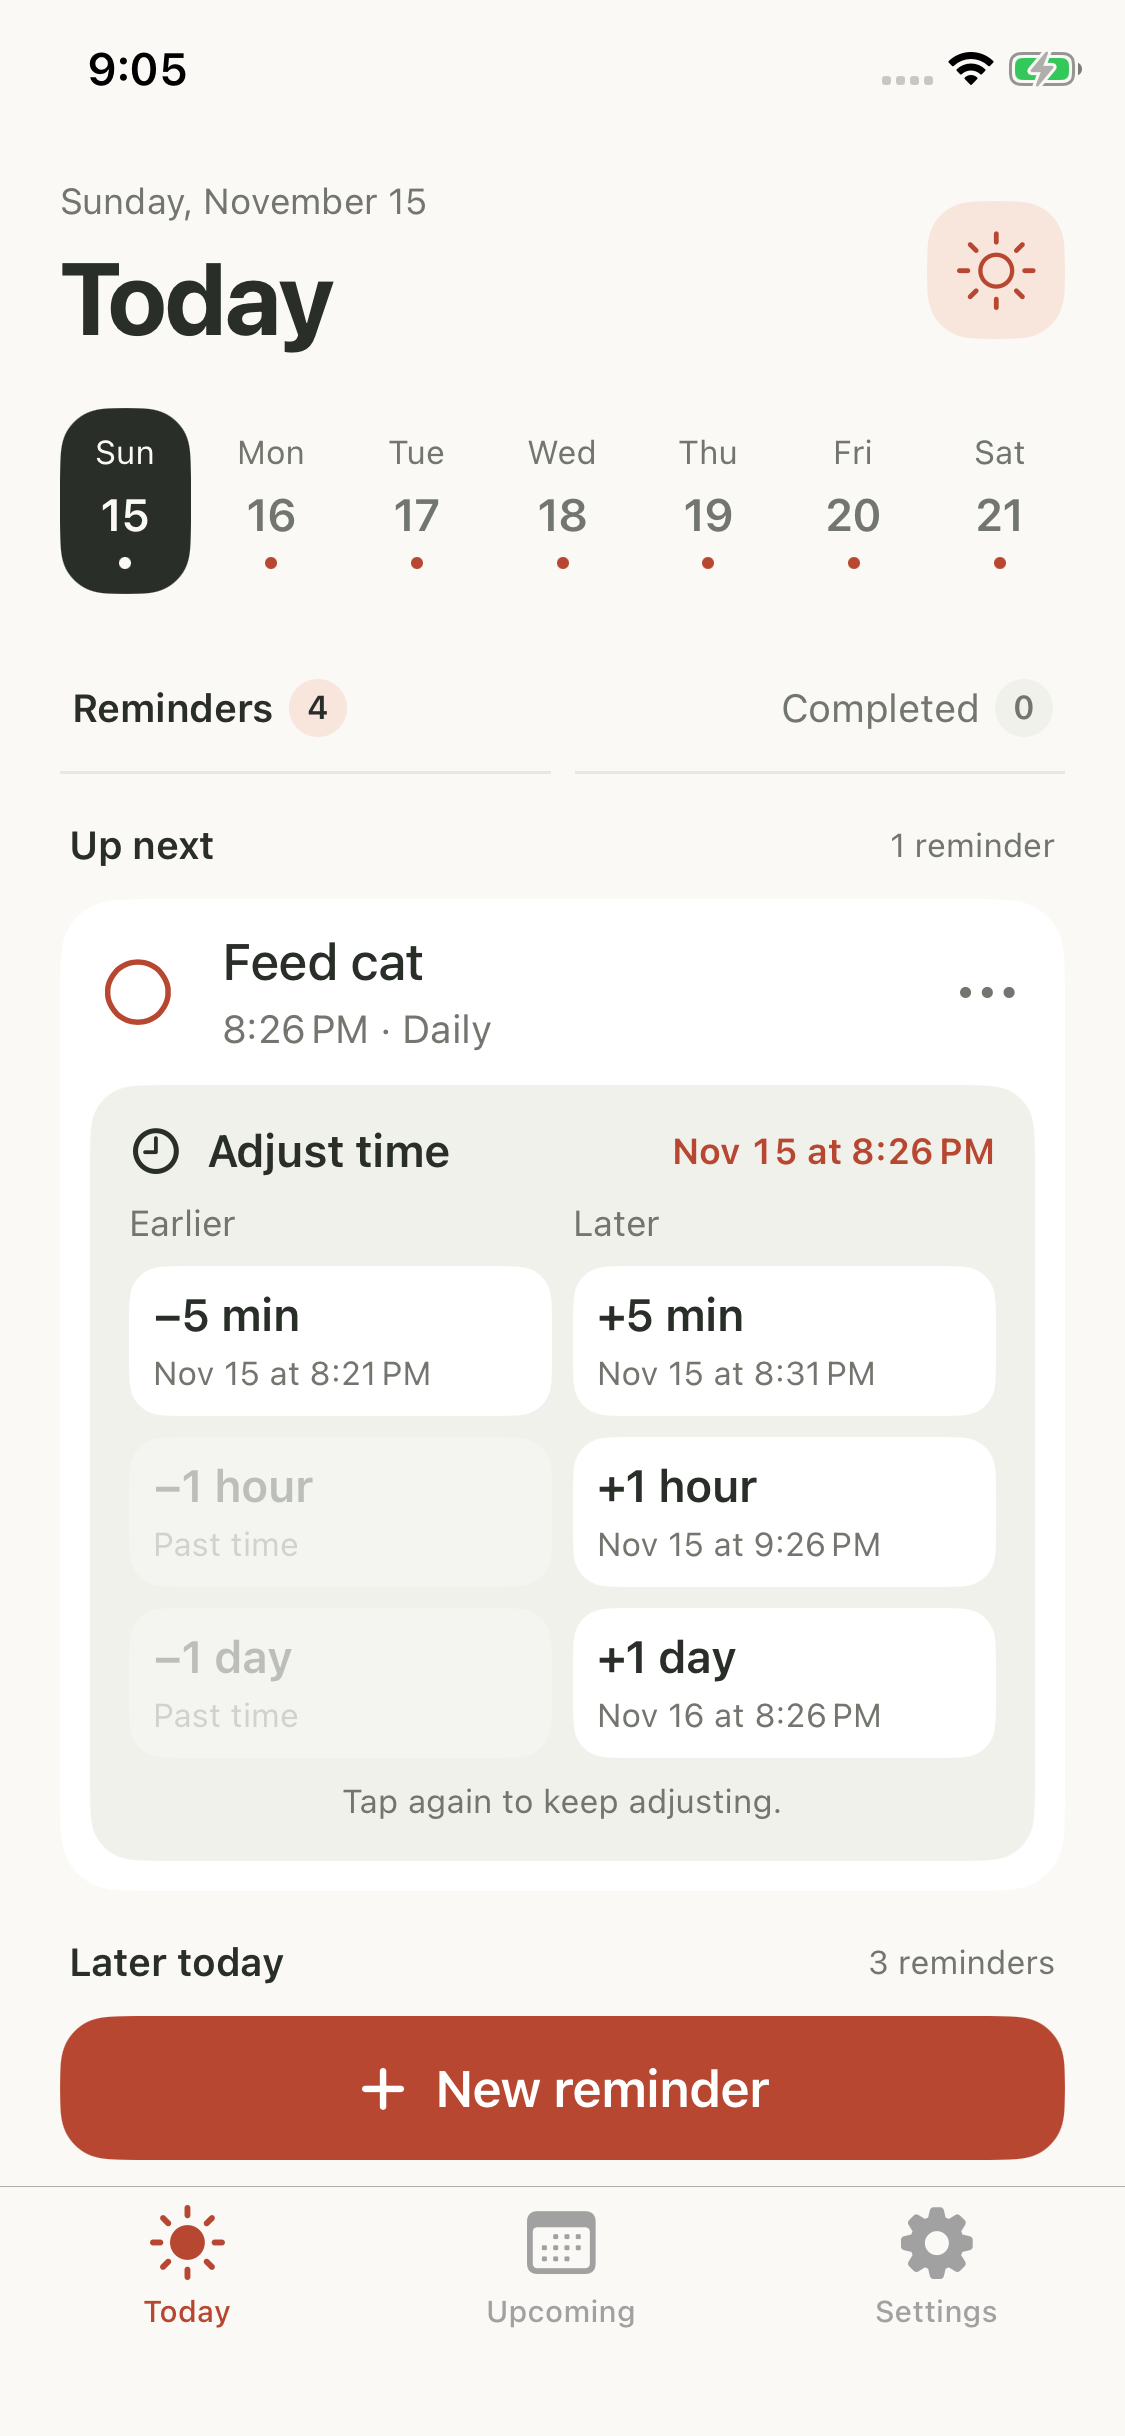
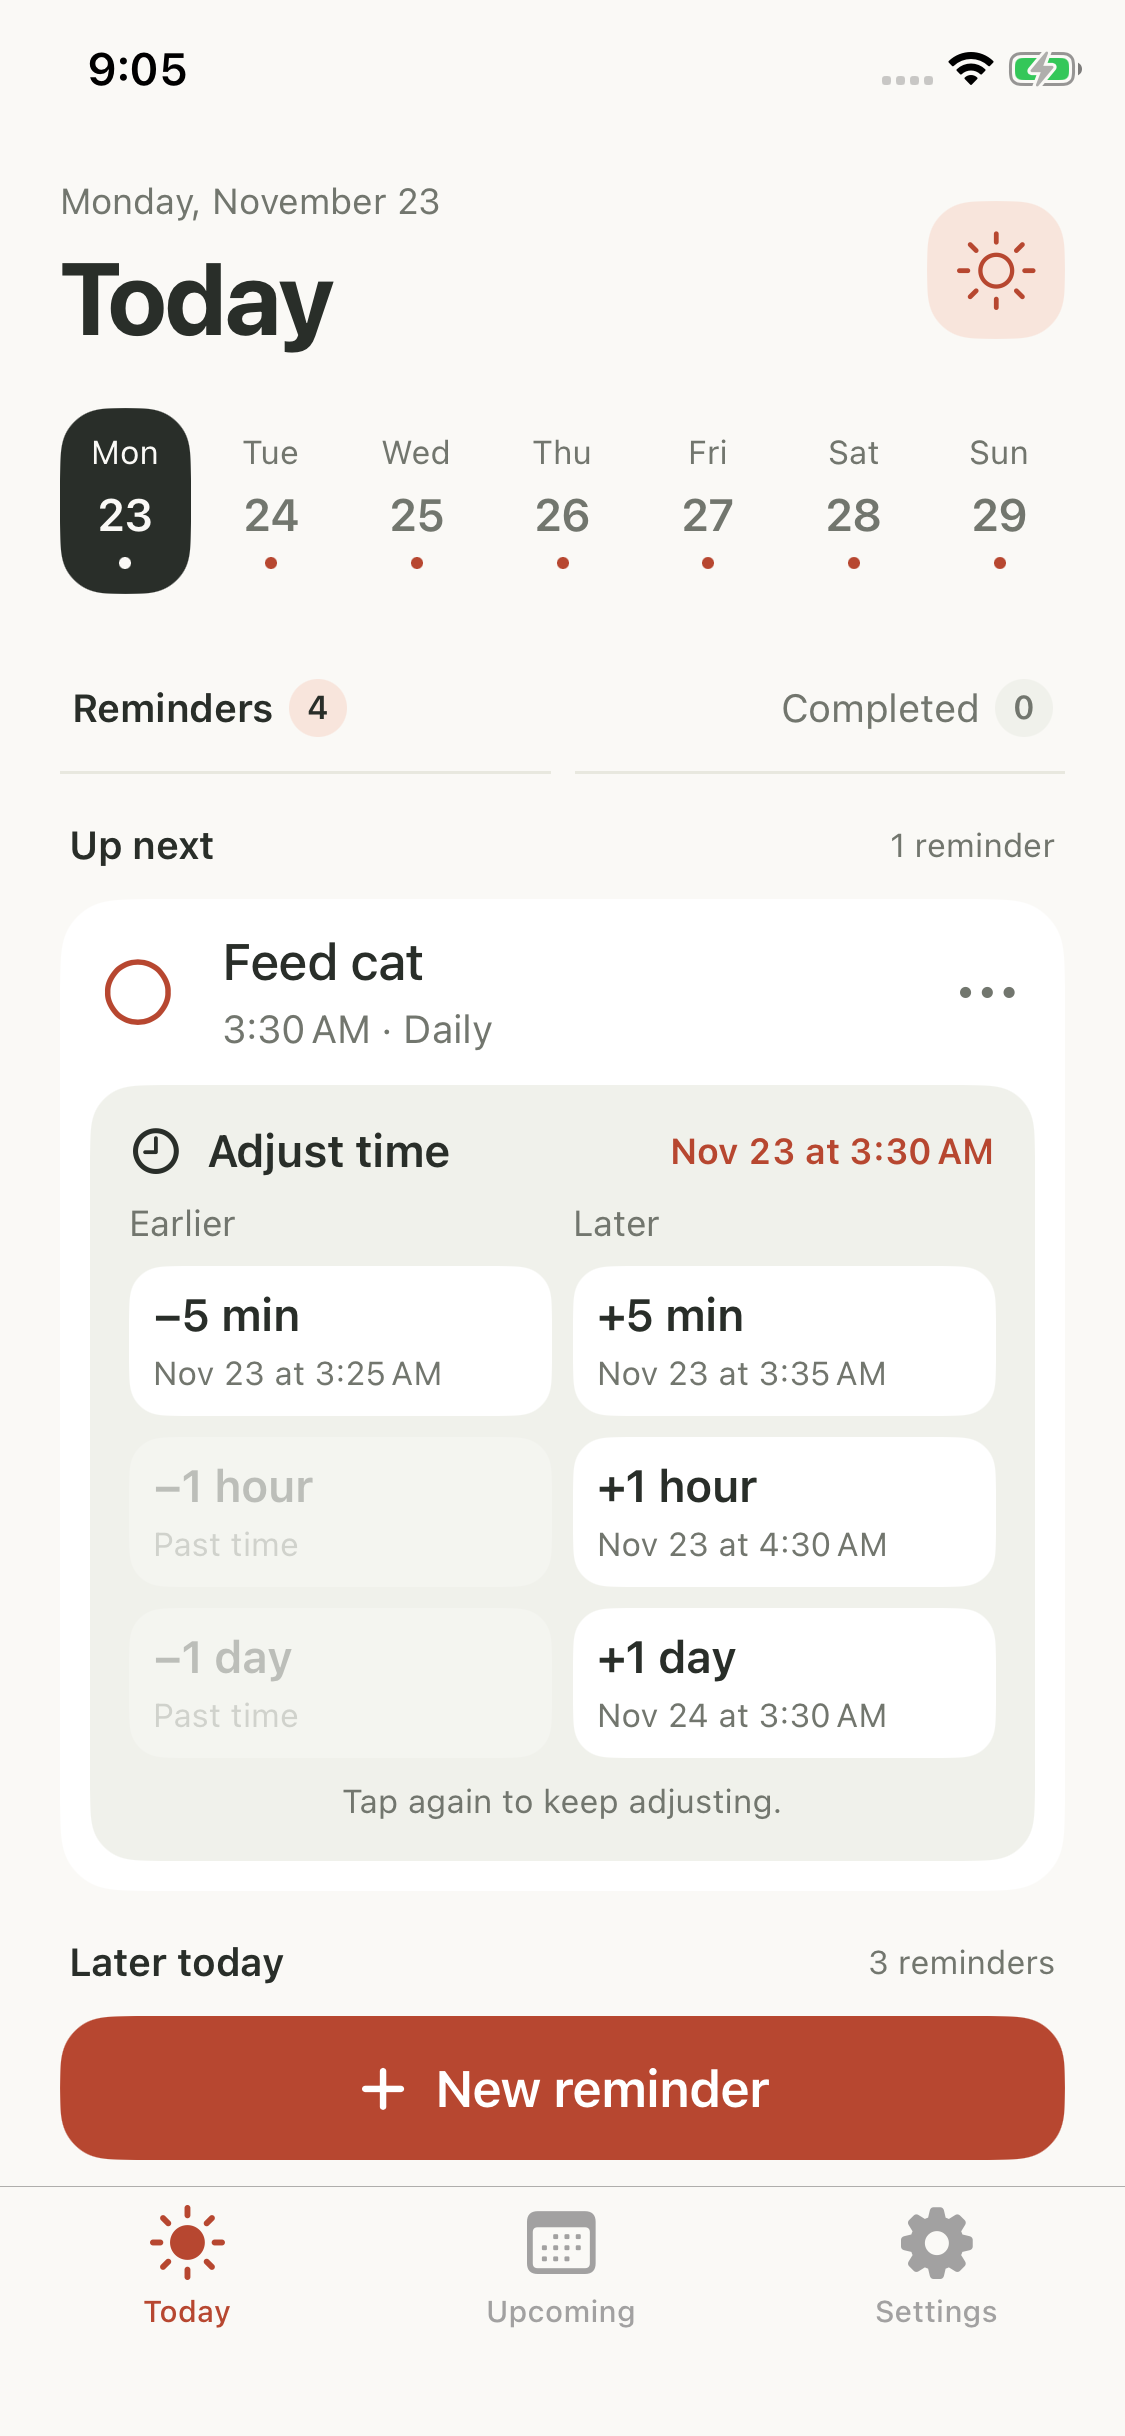
Refresh README with current 1.1.26 screenshots and feature descriptions [skip ci]

diff --git a/README.md b/README.md
@@ -34,7 +34,7 @@ Feed the cat. Make that call. Remember the thing you promised yourself you'd do.
   </tr>
   <tr>
     <td align="center"><img src="docs/images/app-today.png" width="270" alt="Native Today screen with a seven-day date strip, Bell Buddy, an Up Next countdown, and reminders"></td>
-    <td align="center"><img src="docs/images/app-editor.png" width="270" alt="Native reminder editor with blank time entry, AM/PM, date shortcuts, repeat, Nag Me, sound, and notes"></td>
+    <td align="center"><img src="docs/images/app-editor.png" width="270" alt="Native reminder editor showing 3:00 PM, the AM/PM switch, date shortcuts, repeat, Nag Me, sound, and notes"></td>
     <td align="center"><img src="docs/images/app-settings.png" width="270" alt="Native Settings screen with defaults, appearance, automatic backup, import and export, version, and developer credit"></td>
   </tr>
   <tr>
@@ -44,15 +44,30 @@ Feed the cat. Make that call. Remember the thing you promised yourself you'd do.
   </tr>
 </table>
 
-<p align="center"><sub>Native simulator captures with sample reminders, from version 1.1.22 (34). Version 1.1.23 (35) keeps this design and fixes notification-tap handling. Version 1.1.25 lets you tap the sun or calendar icon to reveal search; these captures show the normal agenda layout.</sub></p>
+<p align="center"><sub>Fresh native iPhone 11 Pro simulator captures from version 1.1.26 (38), using sample reminders. Screenshots show the real app UI; example titles and dates are illustrative.</sub></p>
 
 ## Small details that make a difference
 
 **Find it with a keyword.** Tap the sun on Today or the calendar on Upcoming to reveal search for reminder names and notes. Results span all dates, with separate active and Completed filters. Matching ignores capitalization and accents; multiple words can match across a name and its notes. The search field stays hidden until you need it. Cancel or tap the decorative icon again to smoothly tuck it away.
 
+<table>
+  <tr>
+    <td align="center" width="50%"><strong>Search when you need it</strong></td>
+    <td align="center" width="50%"><strong>See beyond today</strong></td>
+  </tr>
+  <tr>
+    <td align="center"><img src="docs/images/app-search.png" width="270" alt="Expanded keyword search beneath the Today heading, with the original sun icon and a matching reminder"></td>
+    <td align="center"><img src="docs/images/app-upcoming.png" width="270" alt="Upcoming screen showing active reminders beyond today and the calendar icon that opens search"></td>
+  </tr>
+  <tr>
+    <td align="center">Tap the decorative icon to open search. Cancel to tuck it away.</td>
+    <td align="center">Find your next plans and adjust them in place.</td>
+  </tr>
+</table>
+
 **A friendly face for what's next.** Bell Buddy blinks, looks around, and reacts with a little hop and wiggle when tapped. A live countdown underneath tells you how close your next reminder is.
 
-**Type 300. Get 3:00.** New reminders start with a blank time field and a number pad. Press Done to format the time, choose AM or PM, and pick Today, Tomorrow, the upcoming weekday shortcut, or any date from the calendar. Add a note for the details you don't want to forget.
+**Type 300. See 3:00 PM.** New reminders start with a blank time field and a number pad. Select AM or PM, then tap Done to format the time and show the selected period beside it. Tap the time to edit again. The reminder-name and notes keyboards also have Done buttons that close the keyboard without saving or leaving the editor. Pick Today, Tomorrow, the upcoming weekday shortcut, or any date from the calendar.
 
 **Keep your routines, one day at a time.** Repeat daily, on weekdays, weekly, monthly, yearly, or on selected weekdays. The Today date strip shows future occurrences too. Mark one occurrence Done—even on a future date—and the rest of the series continues. Upcoming gives you a broader view; Completed keeps your history and lets you restore an occurrence.
 
